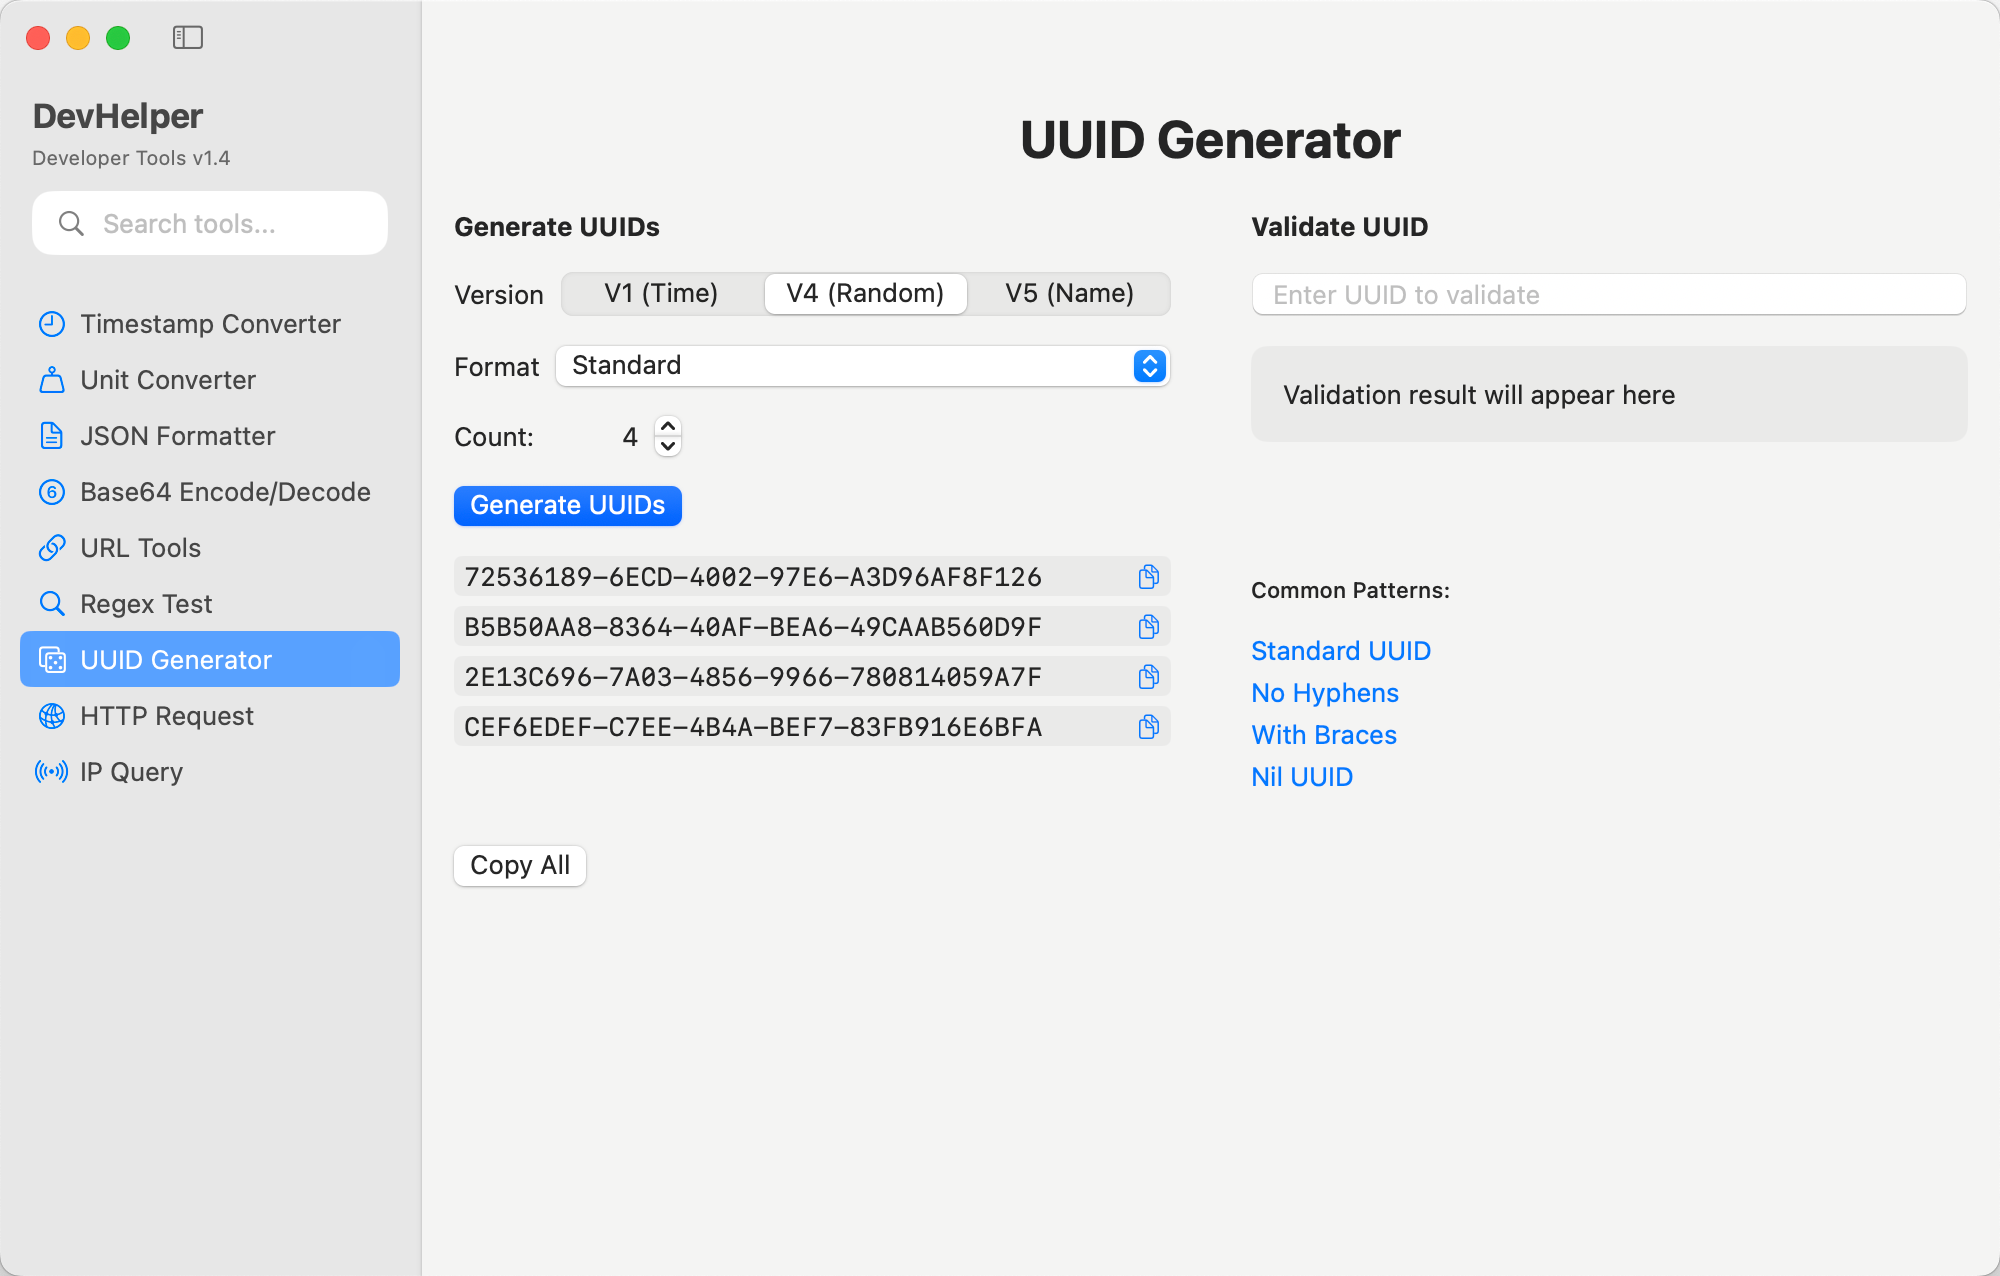
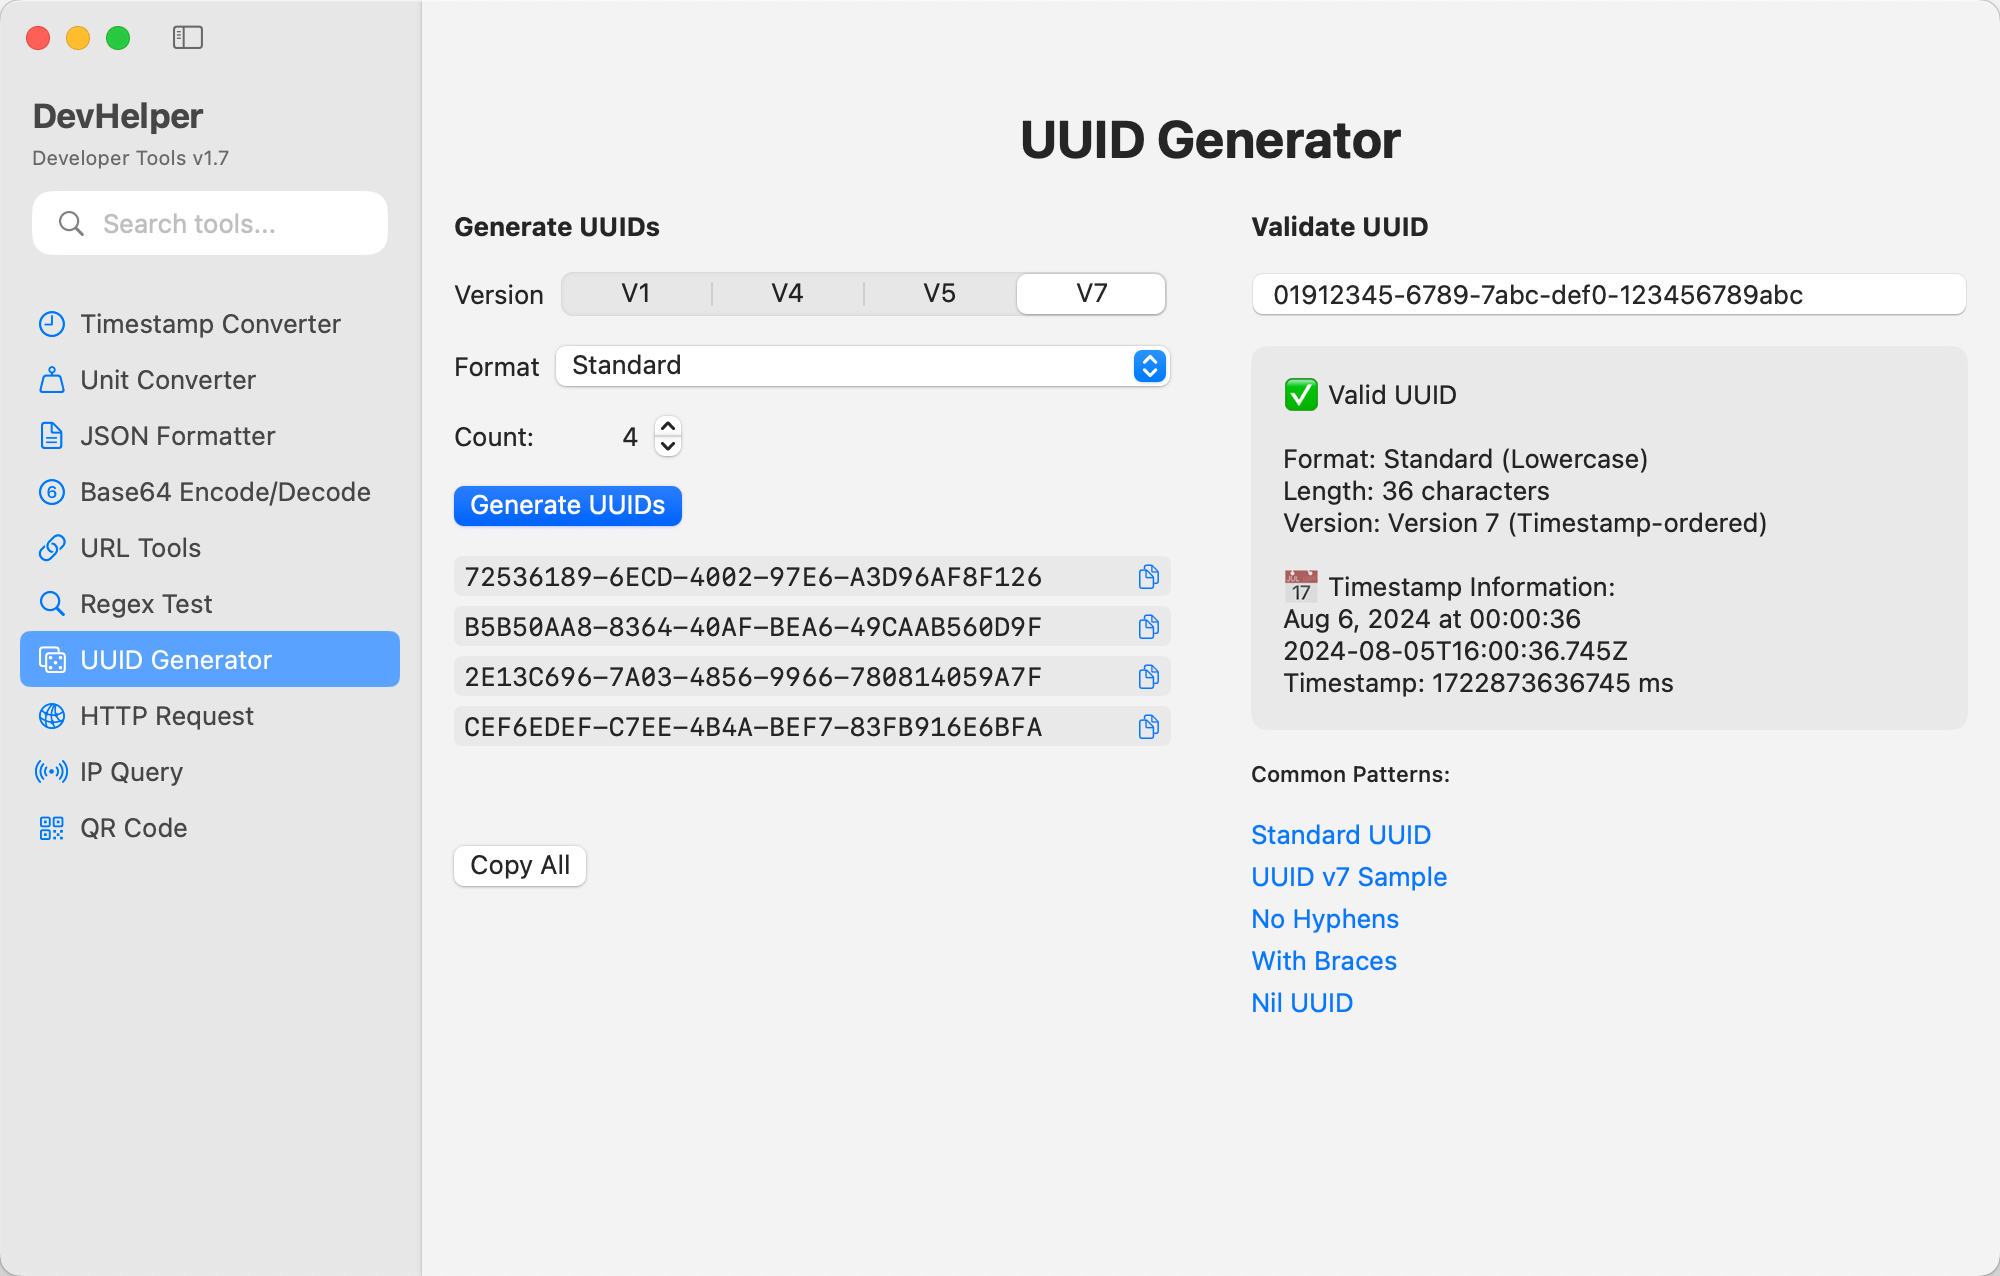
update readme

diff --git a/DESIGN.md b/DESIGN.md
@@ -23,7 +23,8 @@ DevHelper/
 │   │   ├── URLToolsView.swift
 │   │   ├── RegexTestView.swift
 │   │   ├── IPQueryView.swift
-│   │   └── HTTPRequestView.swift
+│   │   ├── HTTPRequestView.swift
+│   │   └── QRCodeView.swift
 │   ├── Assets.xcassets/          # App icons and assets
 │   └── Preview Content/          # SwiftUI preview assets
 └── README.md                     # Project documentation
@@ -103,7 +104,7 @@ Each tool follows a consistent pattern:
 - Format (pretty print)
 - Minify (remove whitespace)
 - Validate with detailed feedback
-- Escape for string embedding
+- Escape/Unescape for string embedding
 - JSON diff/compare mode with side-by-side comparison
 - Syntax error highlighting
 
@@ -273,6 +274,41 @@ Each tool follows a consistent pattern:
 - Comprehensive error handling for network issues
 - Automatic content type detection for response formatting
 - Thread-safe UI updates using `DispatchQueue.main.async`
+
+### 10. QR Code
+**File**: `QRCodeView.swift`
+
+**Features**:
+- QR code generation with multiple size options (Small 128x128, Medium 256x256, Large 512x512, Extra Large 1024x1024, Custom size)
+- Configurable error correction levels (L/M/Q/H) for different reliability needs
+- Real-time QR code generation as user types
+- Copy generated QR code to clipboard functionality
+- Save QR code as PNG file with proper filename formatting
+- QR code scanning from image files or clipboard
+- Image preview for scanning operations
+- Automatic URL detection and opening from scan results
+- Sample data buttons for quick testing (URL, text, WiFi)
+
+**UI Components**:
+- Tabbed interface (Generate/Scan) with segmented picker
+- Two-column layouts with visual flow indicators (arrow icons)
+- Size picker dropdown with descriptive labels
+- Custom size text field for pixel-perfect dimensions
+- Dynamic QR code preview with size indicators
+- Action buttons positioned below QR code image
+- Image preview section for scanning operations
+- Scrollable scan result area with copy/open functionality
+
+**Implementation Details**:
+- `CoreImage.CIFilter.qrCodeGenerator()` for QR code generation
+- `Vision.VNDetectBarcodesRequest` for QR code scanning
+- Dynamic scaling calculation based on selected size
+- `NSOpenPanel` for file selection with image content types
+- `NSSavePanel` with `UniformTypeIdentifiers` for PNG saving
+- `NSPasteboard` integration for clipboard operations
+- Proper entitlements (`com.apple.security.files.user-selected.read-write`) for file operations
+- Real-time UI updates using `onChange` modifiers
+- Error handling for image processing and file operations
 
 ## UI Design Principles
 

diff --git a/README.md b/README.md
@@ -1,6 +1,6 @@
 # DevHelper
 
-A native macOS application for developers, containing essential tools commonly used in software development.
+A native macOS application for developers, containing 10 essential tools commonly used in software development.
 
 > This tool was 100% developed by `Claude Code`.
 
@@ -15,6 +15,7 @@ A native macOS application for developers, containing essential tools commonly u
 - **URL Tools** - URL encoding/decoding and parsing
 - **HTTP Request** - Full-featured HTTP client with method selection, headers, auth, response handling, and JSON tree view
 - **IP Query** - Discover your IP address and query geolocation data for any IP
+- **QR Code** - Generate QR codes with multiple sizes and error correction levels, scan QR codes from images
 
 ## Key Features
 
@@ -36,7 +37,7 @@ A native macOS application for developers, containing essential tools commonly u
 
 ## Version
 
-Current version: 1.5 (Build 6)
+Current version: 1.7
 
 ## Screenshots
 
@@ -69,3 +70,6 @@ Http Request History
 
 IP Query
 ![DevHelper IP Query](./screenshots/ip.png)
+
+QR Code
+![DevHelper QR Code](./screenshots/qrcode.png)
